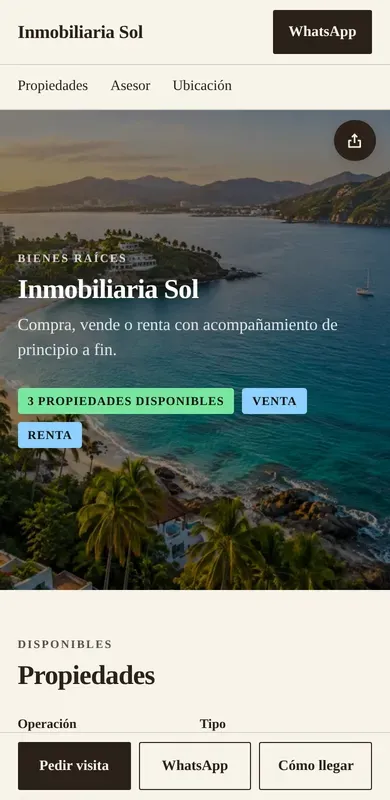
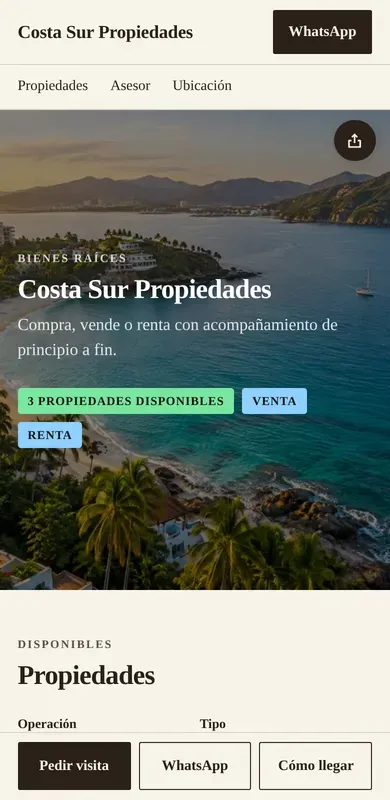
ejemplos: demos del diseño con 41 fotos, nombres y pie «generado con IA» (#652)
Los ejemplos adoptan la identidad de los demos de design (Brasa 31, Atelier Nácar, Dra. Elena Ruvalcaba, Costa Sur Propiedades,
Forja Estudio, Arce Contadores) y usan 41 de las 50 fotos: portadas, carta con miniaturas, áreas de salud, propiedades y asesor,
clases y entrenadora, retrato del despacho y galerías. Sin usar: 7 de la cafetería (no es un giro de la app), la miniatura de
«Pestañas» (el bloque de servicios no tiene foto) y «sobre la doctora». Pie de cada ejemplo: «Demo con datos y fotos generados con
IA» (es y en). Vistas del home regeneradas. Sin migración. Hay que correr «npm run ejemplos -- --rehacer» tras el deploy.

Claude-Session: https://claude.ai/code/session_01HtSBGwTxU9ah8A9tNqxoSw

Changed region(s): [[0.0308, 0.3438, 0.7077, 0.375], [0.0308, 0.0312, 0.4923, 0.0625]]

diff --git a/src/modules/minisitio/giros.ts b/src/modules/minisitio/giros.ts
@@ -14,12 +14,12 @@ export const isGiro = (v: unknown): v is Giro => typeof v === 'string' && (GIROS
 
 /** Datos fijos por giro: tema, categoría del directorio, ruta de su página pública y ejemplo vivo */
 export const GIRO_META: Record<Giro, { theme: string; category: string; slug: string; example: string; exampleName: string; c1: string; c2: string }> = {
-  restaurante: { theme: 'papel', category: 'food', slug: 'restaurantes', example: 'ejemplo-restaurante', exampleName: 'Fonda La Ceiba', c1: '#3b2418', c2: '#8a5a35' },
-  belleza: { theme: 'chicle', category: 'business', slug: 'belleza', example: 'ejemplo-belleza', exampleName: 'Studio Lumbre', c1: '#5a2a3c', c2: '#b4637f' },
+  restaurante: { theme: 'papel', category: 'food', slug: 'restaurantes', example: 'ejemplo-restaurante', exampleName: 'Brasa 31', c1: '#3b2418', c2: '#8a5a35' },
+  belleza: { theme: 'chicle', category: 'business', slug: 'belleza', example: 'ejemplo-belleza', exampleName: 'Atelier Nácar', c1: '#5a2a3c', c2: '#b4637f' },
   salud: { theme: 'menta', category: 'health', slug: 'salud', example: 'ejemplo-salud', exampleName: 'Dra. Elena Ruvalcaba', c1: '#14434f', c2: '#2c6e7b' },
-  inmobiliaria: { theme: 'papel', category: 'business', slug: 'inmobiliarias', example: 'ejemplo-inmobiliaria', exampleName: 'Inmobiliaria Sol', c1: '#1d3b2f', c2: '#4a7a5e' },
-  fitness: { theme: 'tinta', category: 'business', slug: 'fitness', example: 'ejemplo-fitness', exampleName: 'Estudio Pulso', c1: '#161b2e', c2: '#3a4a8a' },
-  servicios: { theme: 'terracota', category: 'business', slug: 'servicios-profesionales', example: 'ejemplo-servicios', exampleName: 'Plomería Mendoza', c1: '#4a2a14', c2: '#b4532a' },
+  inmobiliaria: { theme: 'papel', category: 'business', slug: 'inmobiliarias', example: 'ejemplo-inmobiliaria', exampleName: 'Costa Sur Propiedades', c1: '#1d3b2f', c2: '#4a7a5e' },
+  fitness: { theme: 'tinta', category: 'business', slug: 'fitness', example: 'ejemplo-fitness', exampleName: 'Forja Estudio', c1: '#161b2e', c2: '#3a4a8a' },
+  servicios: { theme: 'terracota', category: 'business', slug: 'servicios-profesionales', example: 'ejemplo-servicios', exampleName: 'Arce Contadores', c1: '#4a2a14', c2: '#b4532a' },
 }
 export const giroBySlug = (slug: string): Giro | undefined => GIROS.find((g) => GIRO_META[g].slug === slug)
 
@@ -51,6 +51,21 @@ type Ctx = {
   blk: (type: string, data: Record<string, unknown>, sectionId: number) => void
   page: (slug: string, title: string, desc: string) => number
 }
+
+/** Contenido de los demos del diseño (solo en los ejemplos con fotos): carta de Brasa 31 con miniaturas */
+const menuBrasa = (c: Ctx) => [
+  { categoria: 'Lo más pedido', nombre: 'Brasa clásica', descripcion: 'Carne 180 g, queso, cebolla asada y salsa de la casa.', precio: '$149', foto: foto(c, 'restaurante/menu-brasa-clasica.webp') ?? null, etiquetas: 'favorito', disponible: 'si' },
+  { categoria: 'Lo más pedido', nombre: 'Costillas BBQ (media)', descripcion: 'Con papas y ensalada de col.', precio: '$229', foto: foto(c, 'restaurante/menu-costillas.webp') ?? null, etiquetas: 'nuevo', disponible: 'si' },
+  { categoria: 'Lo más pedido', nombre: 'Alitas x10', descripcion: 'Búfalo, mango-habanero o BBQ.', precio: '$159', foto: foto(c, 'restaurante/menu-alitas.webp') ?? null, etiquetas: 'picante', disponible: 'si' },
+  { categoria: 'Lo más pedido', nombre: 'Boneless x12', descripcion: 'Con dos aderezos.', precio: '$169', foto: foto(c, 'restaurante/menu-boneless.webp') ?? null, etiquetas: '', disponible: 'si' },
+]
+/** Áreas de la Dra. Elena Ruvalcaba (demo de salud) con foto */
+const areasSalud = (c: Ctx) => [
+  { foto: foto(c, 'salud/area-acne.webp') ?? null, titulo: 'Acné', sub_items: 'Tratamiento y control para piel joven y adulta', enlace: '#contacto', texto_enlace: 'Agendar' },
+  { foto: foto(c, 'salud/area-manchas.webp') ?? null, titulo: 'Manchas', sub_items: 'Valoración y plan para unificar el tono', enlace: '#contacto', texto_enlace: 'Agendar' },
+  { foto: foto(c, 'salud/area-lunares.webp') ?? null, titulo: 'Revisión de lunares', sub_items: 'Dermatoscopia y seguimiento', enlace: '#contacto', texto_enlace: 'Agendar' },
+  { foto: foto(c, 'salud/area-estetica.webp') ?? null, titulo: 'Estética', sub_items: 'Procedimientos de rejuvenecimiento', enlace: '#contacto', texto_enlace: 'Agendar' },
+]
 
 /** Etiquetas con marcatextos de la portada (design, bloque 7). Solo en los sitios de ejemplo: en el sitio de una persona serían promociones inventadas. */
 function etiquetas(c: Ctx, sectionId: number, items: [string, 'rosa' | 'verde' | 'azul'][]): void {
@@ -93,7 +108,7 @@ const BUILDERS: Record<Giro, (c: Ctx, home: number, first: number) => { nav: Sit
     const m = c.page('menu', 'Menú', 'Platillos, bebidas y postres')
     c.blk('menu', {
       titulo: '', moneda: '$', carrito: true,
-      items: [
+      items: c.v.fotos ? menuBrasa(c) : [
         { categoria: 'Para empezar', nombre: 'Sopa de la casa', descripcion: 'Cambia cada día', precio: '$70', etiquetas: '', disponible: 'si' },
         { categoria: 'Para empezar', nombre: 'Guacamole con totopos', descripcion: 'Hecho al momento', precio: '$95', etiquetas: 'vegano', disponible: 'si' },
         { categoria: 'Platos fuertes', nombre: 'Enchiladas verdes', descripcion: 'Pollo deshebrado, crema y queso', precio: '$140', etiquetas: 'favorito', disponible: 'si' },
@@ -154,7 +169,7 @@ const BUILDERS: Record<Giro, (c: Ctx, home: number, first: number) => { nav: Sit
     const cat = c.mk(home, { ancla: 'opciones', antetitulo: 'Qué atendemos', titulo: 'Conoce tus opciones', ancho: 'ancho' })
     c.blk('category_grid', {
       titulo: '',
-      items: [
+      items: c.v.fotos ? areasSalud(c) : [
         { titulo: 'Primera consulta', sub_items: 'Revisión general, historia clínica y plan', enlace: 'consulta', texto_enlace: 'Ver detalles' },
         { titulo: 'Seguimiento', sub_items: 'Control de tratamiento y resultados', enlace: '#contacto', texto_enlace: 'Agendar' },
         { titulo: 'Procedimientos', sub_items: 'Explica aquí tus procedimientos principales', enlace: '#contacto', texto_enlace: 'Agendar' },
@@ -199,7 +214,7 @@ const BUILDERS: Record<Giro, (c: Ctx, home: number, first: number) => { nav: Sit
     c.blk('wa_request', { preset: 'visita', boton: 'Solicitar visita', guardar_copia: true }, l)
     const a = c.mk(home, { ancla: 'asesor', antetitulo: 'Tu asesor', fondo: 'color', color: '#e7efe9', ancho: 'normal' })
     c.blk('profile', {
-      nombre: c.v.name, especialidad: 'Asesor inmobiliario',
+      foto: foto(c, 'inmobiliaria/asesor.webp') ?? null, nombre: c.v.name, especialidad: 'Asesor inmobiliario',
       bio: 'Cuéntale a tus clientes cuánto tiempo llevas en el mercado, en qué zonas trabajas y cómo cuidas cada operación.',
       credenciales: [{ etiqueta: 'Zonas', valor: 'Tu ciudad y colonias' }, { etiqueta: 'Experiencia', valor: 'Años en el mercado' }],
     }, a)
@@ -231,6 +246,19 @@ const BUILDERS: Record<Giro, (c: Ctx, home: number, first: number) => { nav: Sit
       items: [cl('Spinning', 'mon', '07:00', '07:45', 'Instructor', 15), cl('Yoga', 'mon', '18:00', '19:00', 'Instructora', 12), cl('HIIT', 'tue', '07:00', '07:30'), cl('Fuerza', 'wed', '19:00', '20:00', 'Instructor', 10), cl('Yoga', 'thu', '18:00', '19:00', 'Instructora', 12), cl('Movilidad', 'sat', '09:00', '10:00', 'Instructora', 20)],
     }, h)
     c.blk('wa_request', { preset: 'clase', boton: 'Reservar clase muestra', guardar_copia: true }, h)
+    if (c.v.fotos) {
+      const cl = c.mk(home, { ancla: 'clases-semana', antetitulo: 'Clases', titulo: 'Esta semana', ancho: 'ancho' })
+      c.blk('category_grid', {
+        titulo: '',
+        items: [
+          { foto: foto(c, 'fitness/clase-fuerza.webp') ?? null, titulo: 'Fuerza · lun, mié, vie 7:00', sub_items: 'Barra, mancuerna y kettlebell. Nivel medio. 3 lugares', enlace: '#clases', texto_enlace: 'Reservar' },
+          { foto: foto(c, 'fitness/clase-hiit.webp') ?? null, titulo: 'Cardio HIIT · mar, jue 19:30', sub_items: 'Intervalos con peso corporal. Grupo lleno', enlace: '#clases', texto_enlace: 'Lista de espera' },
+          { foto: foto(c, 'fitness/clase-movilidad.webp') ?? null, titulo: 'Movilidad · sáb 9:00', sub_items: 'Todos los niveles. 5 lugares', enlace: '#clases', texto_enlace: 'Reservar' },
+        ],
+      }, cl)
+      const en = c.mk(home, { antetitulo: 'Entrenadores', titulo: 'Quien te acompaña', fondo: 'color', color: '#e4e8f6', ancho: 'normal' })
+      c.blk('profile', { foto: foto(c, 'fitness/entrenadora.webp') ?? null, nombre: 'Camila Torres', especialidad: 'Entrenadora de fuerza y movilidad', bio: 'Diez años entrenando grupos pequeños. Te explica cada ejercicio y ajusta la carga a tu nivel.', credenciales: [{ etiqueta: 'Grupos', valor: 'De 8 personas como máximo' }] }, en)
+    }
     galeria(c, home, 'Adentro', 'Así se entrena aquí', ['fitness/estudio.webp', 'fitness/detalle-kettlebells.webp', 'fitness/galeria-comunidad.webp'], '3')
     return {
       nav: [{ texto: 'Programas', tipo: 'ancla', destino: 'programas' }, { texto: 'Clases', tipo: 'ancla', destino: 'clases' }, { texto: 'Ubicación', tipo: 'ancla', destino: 'ubicacion' }],
@@ -258,6 +286,10 @@ const BUILDERS: Record<Giro, (c: Ctx, home: number, first: number) => { nav: Sit
     c.blk('paragraph', { text: 'Menciona las colonias o ciudades donde das servicio y el tiempo de respuesta habitual.' }, z)
     const r = c.mk(home, { ancla: 'resenas', antetitulo: 'Clientes', titulo: 'Lo que dicen de nosotros', ancho: 'angosto' })
     c.blk('trust_line', { items: [{ texto: 'Servicio garantizado' }, { texto: 'Presupuesto sin costo' }, { texto: 'Atención por WhatsApp' }] }, r)
+    if (c.v.fotos) {
+      const rt = c.mk(home, { ancla: 'despacho', antetitulo: 'Quién te atiende', fondo: 'color', color: '#f3e6dc', ancho: 'normal' })
+      c.blk('profile', { foto: foto(c, 'servicios/retrato.webp') ?? null, nombre: 'Lic. Mariana Arce', especialidad: 'Contadora pública', bio: 'Contabilidad, impuestos y nómina para personas físicas y pequeñas empresas. Te explico en claro lo que debes y lo que puedes pagar menos.', credenciales: [{ etiqueta: 'Atención', valor: 'Con cita, presencial o en línea' }] }, rt)
+    }
     galeria(c, home, 'La oficina', 'Ven a conocernos', ['servicios/oficina.webp', 'servicios/reunion.webp', 'servicios/escritorio.webp'], '3')
     return {
       nav: [{ texto: 'Servicios', tipo: 'ancla', destino: 'servicios' }, { texto: 'Cobertura', tipo: 'ancla', destino: 'cobertura' }],
@@ -304,7 +336,7 @@ export function applyGiro(db: DB, linkId: number, giro: Giro, v: GiroVals, now: 
     whatsapp: v.whatsapp,
     cabecera: { activa: true, logo: v.logo ?? null, nombre: v.name.slice(0, 40), nav: 'manual', nav_manual: nav, cta: out.cta },
     barra: { activa: true, acciones: barra.slice(0, 3) },
-    pie: { activo: true, servicios: out.servicios, direccion: v.address.slice(0, 160), texto: v.example ? 'Sitio de ejemplo hecho con túbio · crea el tuyo en tubio.link' : '' },
+    pie: { activo: true, servicios: out.servicios, direccion: v.address.slice(0, 160), texto: v.example ? 'Demo con datos y fotos generados con IA · Demo with AI-generated data and photos · Hecho con túbio · tubio.link' : '' },
   })
   saveSiteConfig(db, linkId, config, now)
 }

diff --git a/tests/giros.test.ts b/tests/giros.test.ts
@@ -119,3 +119,21 @@ describe('fotos de los ejemplos (bloque 7)', () => {
     expect(sin).not.toContain('Así son por dentro')
   })
 })
+
+describe('pie de los ejemplos (IA)', () => {
+  it('los sitios de ejemplo avisan que el demo es generado con IA (es y en); el sitio de una persona no', async () => {
+    const t = await makeApp()
+    const v = await signup(t)
+    const { createLink } = await import('../src/modules/links/repo.ts')
+    const { defaultBioData } = await import('../src/modules/bio/design.ts')
+    const { applyGiro } = await import('../src/modules/minisitio/giros.ts')
+    const owner = t.deps.db.prepare('SELECT id FROM users LIMIT 1').pluck().get() as number
+    const mk = (alias: string) => createLink(t.deps.db, owner, { project_id: null, alias, kind: 'bio', title: 'X', target_url: null, redirect_code: 302, data: { ...defaultBioData('X', '', 'papel'), noindex: true }, is_enabled: true, starts_at: null, ends_at: null, expired_url: null, click_limit: null, limit_url: null, is_sensitive: false, utm: {}, forward_query: false, public_stats: false }, Date.now())
+    applyGiro(t.deps.db, mk('demo').id, 'servicios', { name: 'Arce Contadores', whatsapp: '', address: 'Calle 1', example: true }, Date.now())
+    const demo = (await v.get('/demo')).body
+    expect(demo).toContain('Demo con datos y fotos generados con IA')
+    expect(demo).toContain('Demo with AI-generated data and photos')
+    applyGiro(t.deps.db, mk('real').id, 'servicios', { name: 'Mi despacho', whatsapp: '', address: 'Calle 1' }, Date.now())
+    expect((await v.get('/real')).body).not.toContain('generados con IA')
+  })
+})
